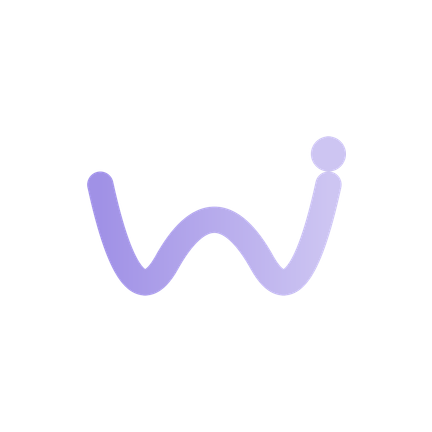
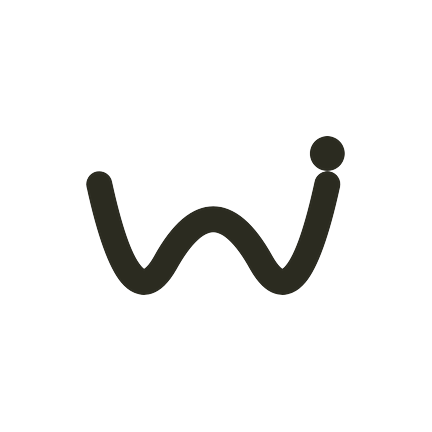
The app wears the yellow mark (#918)
The launcher icon was the lilac mark on navy; it is now the supplied ink "wi"
on #F5D800, and everything cut from that square follows: the Android
foreground, monochrome and background layers, the splash mark, the favicon.

Two flat colours make the cut clean. Each pixel's alpha is how far it has
travelled from the yellow towards the ink, so the anti-aliased edge survives as
a gradient rather than a staircase — which is what a mask thresholded at some
midpoint would have given. The geometry is the old geometry: the mark at 60% of
the canvas for the launcher (inside the 66% circle a launcher promises not to
crop) and 80% for the splash, both measured off the files this replaces, so
nothing moves or changes size.

One colour had to move with it. The splash was #FFE000 and the adaptive icon's
background #14162a, neither of which is the yellow the mark was drawn on. The
native splash and the JS one are the same flat colour by design — a difference
between them shows as a flash at the handoff — so `app.json` and `SPLASH_BG`
now both carry #F5D800, and so does the icon's background layer.

The supplied originals are kept in `infra/art/brand/`, outside the app, with
the recipe in that directory's README: the assets are derived, and a future
change to the mark should come from there rather than from editing eight PNGs.

Changed region(s): [[0.1806, 0.3009, 0.8125, 0.6921]]

diff --git a/apps/mobile/src/components/AnimatedSplash.tsx b/apps/mobile/src/components/AnimatedSplash.tsx
@@ -50,7 +50,7 @@ import Animated, {
     of apps, which is what GoodRx's yellow and Spotify's black are for. The mark
     on it is the app's ink rather than white, because a white mark on this is
     unreadable. */
-const SPLASH_BG = '#FFE000';
+const SPLASH_BG = '#F5D800';
 
 /** The mark's drawn width, identical to `imageWidth` in `app.json` for the same
     reason: the native half draws the same file, and a mark that changes size

diff --git a/infra/art/README.md b/infra/art/README.md
@@ -66,3 +66,22 @@ local server. Changing either reaches phones without another native build.
 
 Re-running the publish overwrites in place, so a redrawn illustration reaches
 every phone as soon as its cache expires — no app release involved.
+
+## The brand mark (`brand/`)
+
+`brand/waves-mark-yellow.svg` and `brand/waves-icon-1024.png` are the supplied
+originals of the app mark — the ink "wi" wave on `#F5D800`. They are kept here
+as the source the launcher icons were cut from, not as anything the app loads.
+
+Everything under `apps/mobile/assets/images/` is derived from that 1024 square,
+and can be regenerated from it: the Android foreground and monochrome layers are
+the mark alone at 60% of the canvas (inside the 66% the launcher promises not to
+crop), the background layer is the flat yellow, and the splash mark is the same
+shape at 80%. Two flat colours is what makes the cut clean — each pixel's alpha
+is how far it has travelled from the yellow towards the ink, so the anti-aliased
+edge survives as a gradient.
+
+The yellow is `#F5D800` and the ink `#2B2B20`. Anything that paints the launch —
+`adaptiveIcon.backgroundColor` and the splash plugin in `app.json`, `SPLASH_BG`
+in `AnimatedSplash.tsx` — has to carry that exact yellow, or the handoff from
+the native splash to the JS one shows as a flash of a different colour.
